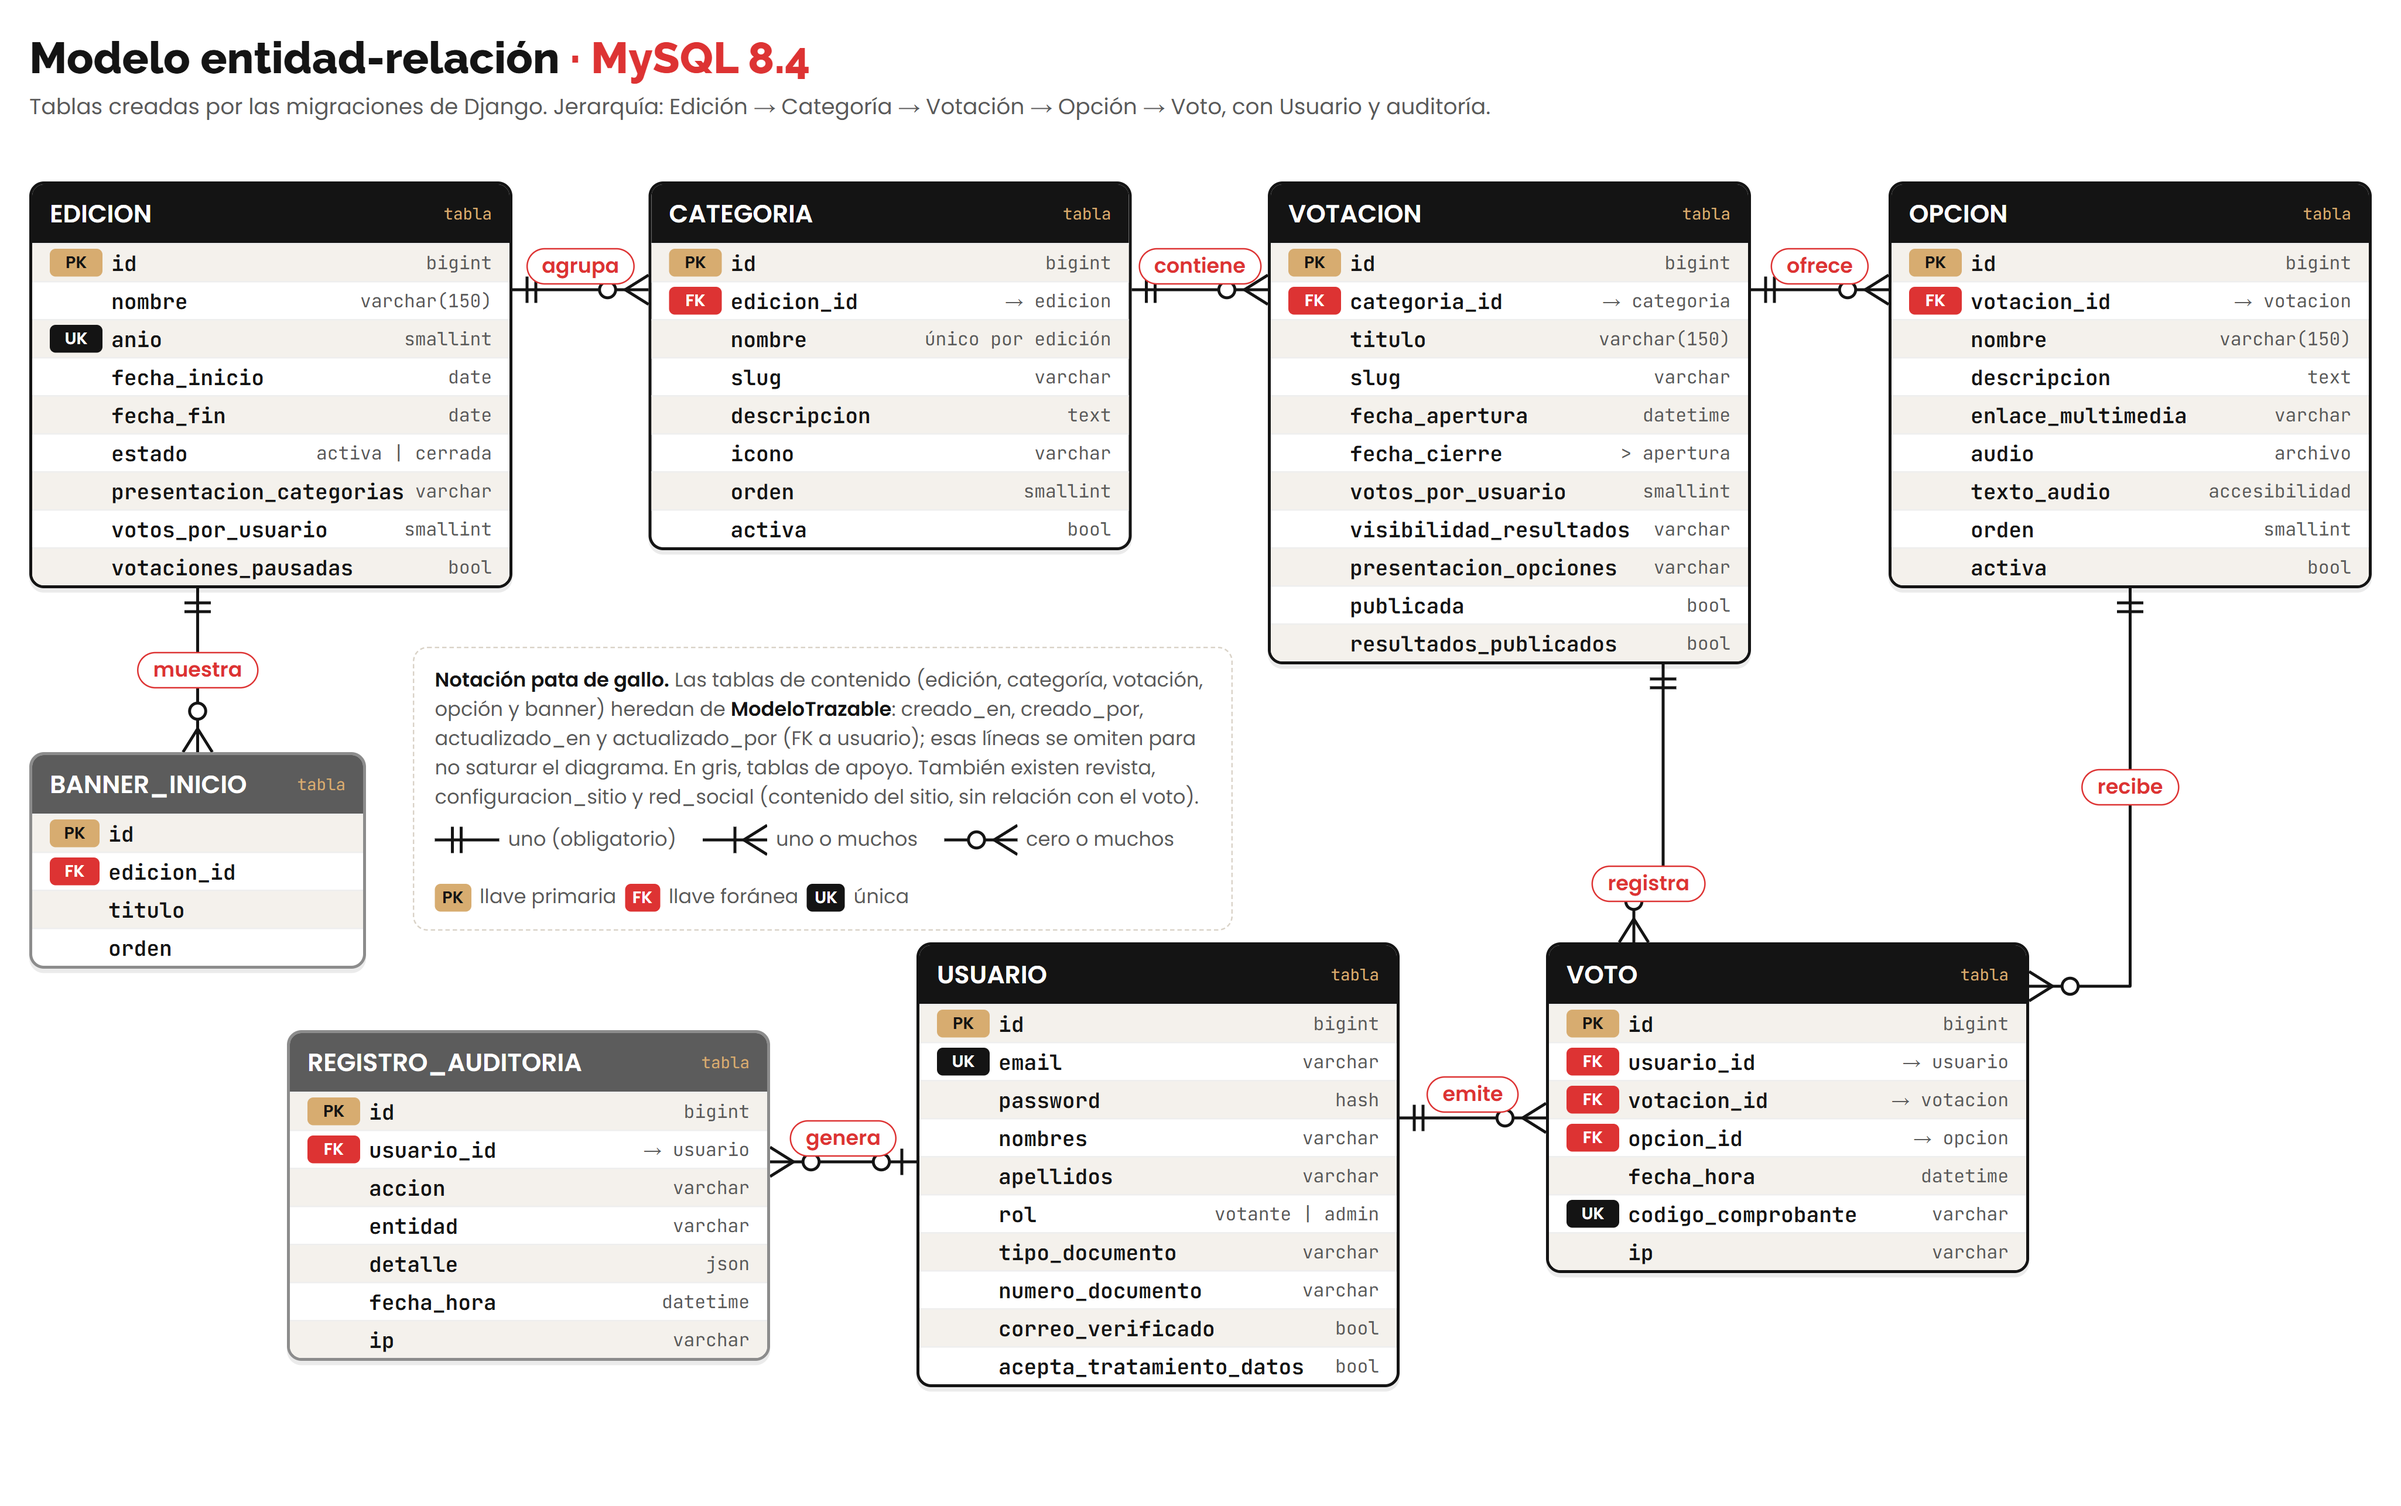
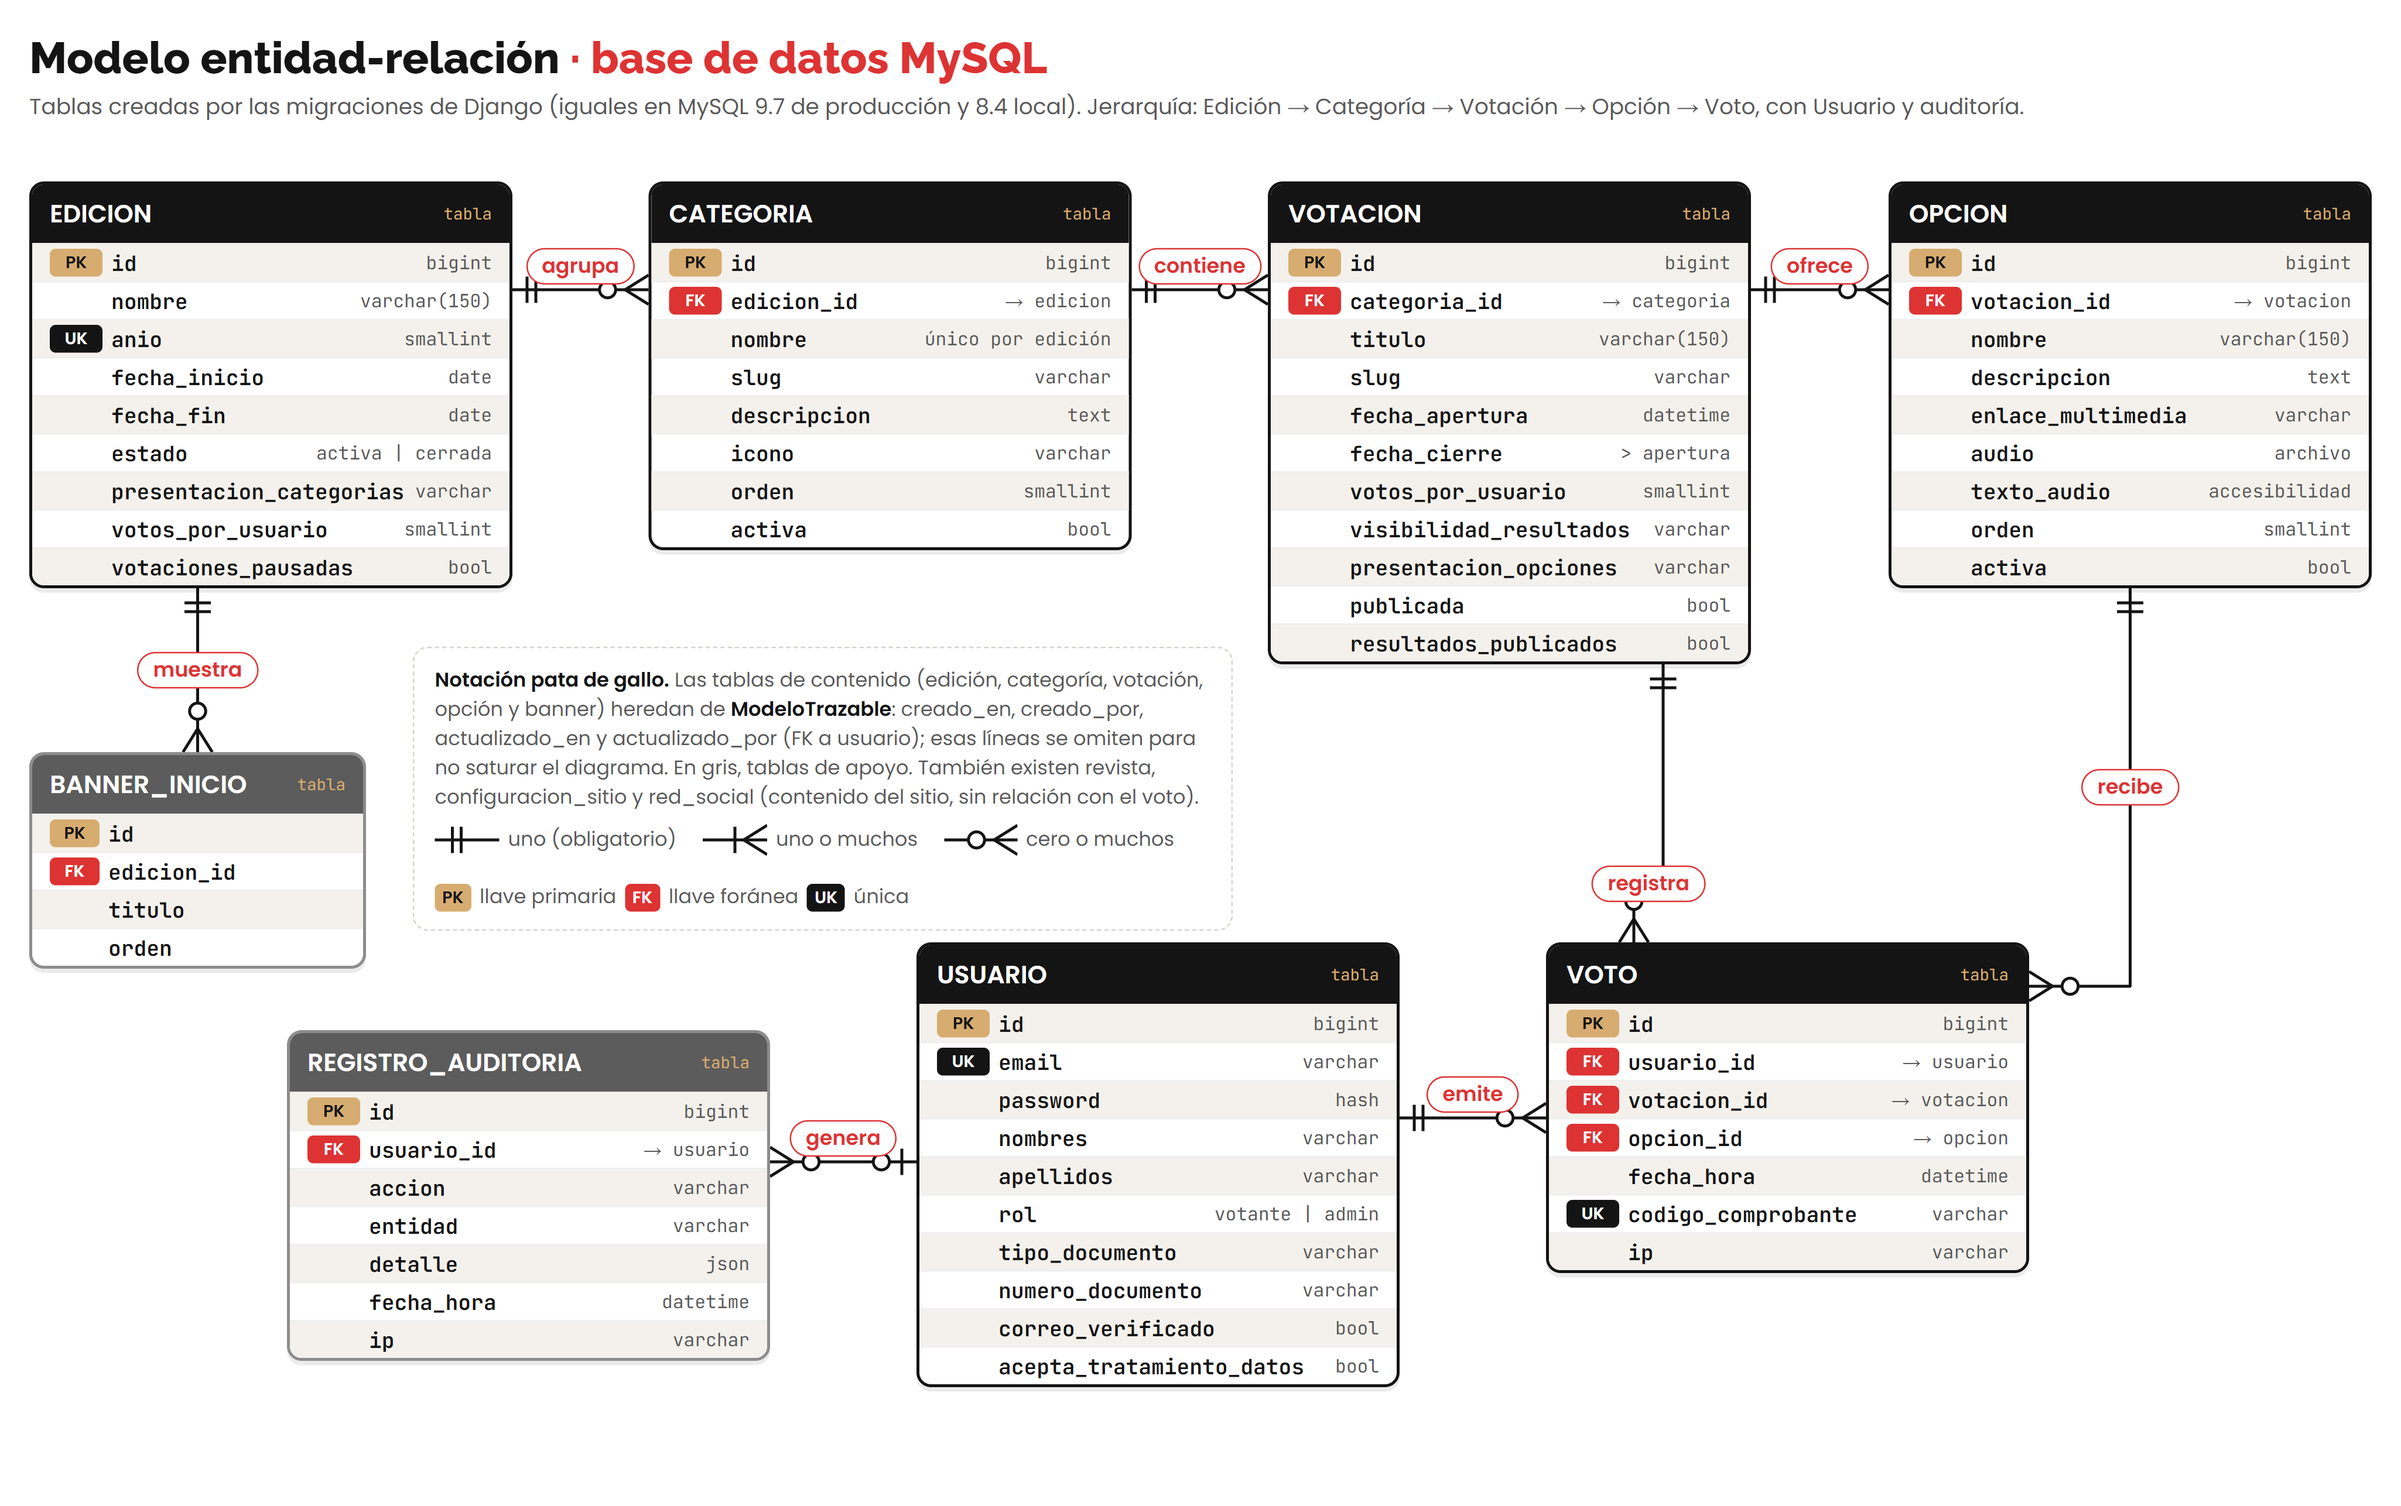
Actualizar los diagramas de despliegue y entidad-relación

Changed region(s): [[0.2185, 0.0311, 0.6868, 0.0933], [0.718, 0.0622, 0.8429, 0.0933]]

diff --git a/docs/diagramas/arquitectura/despliegue-uml.html b/docs/diagramas/arquitectura/despliegue-uml.html
@@ -94,7 +94,7 @@
   </div>
 
   <div class="nodo" id="mysql" style="left:1305px; top:440px; width:250px; height:180px">
-    <div class="tit">«contenedor»<b>MySQL 8.4</b></div>
+    <div class="tit">«contenedor» shared_mysql<b>MySQL 9.7</b></div>
     <div class="art"><small>«schema»</small><b>votaciones_flv</b><div class="d">tablas creadas por las migraciones</div></div>
   </div>
 
@@ -104,7 +104,7 @@
   </div>
 
   <div class="ley"><b>Cómo leerlo.</b> Las cajas en 3D son nodos (hardware o entornos de ejecución); dentro van los componentes de software y los artefactos que se despliegan. Las líneas son rutas de comunicación con su protocolo.
-    <b>En local</b>, <span style="font-family:'JetBrains Mono'">docker compose up</span> levanta los mismos contenedores web (:8095), api (:8096) y db (:3317), sin Cloudflare ni edge_nginx.</div>
+    <b>En local</b>, <span style="font-family:'JetBrains Mono'">docker compose up</span> levanta los mismos contenedores web (:8095) y api (:8096), y la base db con MySQL 8.4 (:3317), sin Cloudflare ni edge_nginx.</div>
 </div>
 <script src="../uml.js"></script>
 <script>

diff --git a/docs/diagramas/datos/entidad-relacion.html b/docs/diagramas/datos/entidad-relacion.html
@@ -35,8 +35,8 @@
 </style>
 </head>
 <body>
-<h1>Modelo entidad-relación <span>· MySQL 8.4</span></h1>
-<p class="sub">Tablas creadas por las migraciones de Django. Jerarquía: Edición → Categoría → Votación → Opción → Voto, con Usuario y auditoría.</p>
+<h1>Modelo entidad-relación <span>· base de datos MySQL</span></h1>
+<p class="sub">Tablas creadas por las migraciones de Django (iguales en MySQL 9.7 de producción y 8.4 local). Jerarquía: Edición → Categoría → Votación → Opción → Voto, con Usuario y auditoría.</p>
 <div id="lienzo">
   <svg id="lineas"></svg>
 </div>
